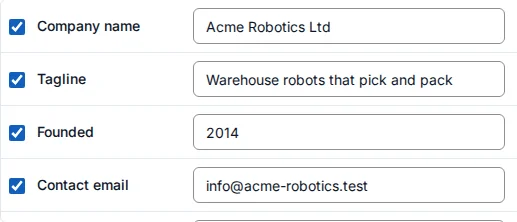
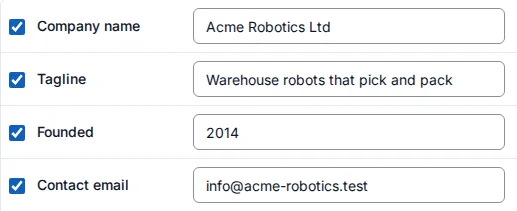
Confirm capture at natural size, footer early-access column without repeated badges

diff --git a/app/templates/main/index.html b/app/templates/main/index.html
@@ -87,7 +87,7 @@
       </li>
     </ol>
     <figure class="mt-12 max-w-3xl" data-testid="home-confirm-figure">
-      <img src="{{ url_for('static', filename='img/home/confirm-profile.webp') }}" alt="The confirm step: company name, tagline, founding year and contact email, each with a tick box and a field you can change." width="517" height="222" loading="lazy" decoding="async" class="block h-auto w-full rounded-xl border border-border">
+      <img src="{{ url_for('static', filename='img/home/confirm-profile.webp') }}" alt="The confirm step: company name, tagline, founding year and contact email, each with a tick box and a field you can change." width="517" height="211" loading="lazy" decoding="async" class="block h-auto max-w-full rounded-xl border border-border">
       <figcaption class="public-card-body mt-3">The confirm step as it looks today, on a demonstration company, captured on 26 October 2026.</figcaption>
     </figure>
     <div class="mt-8">

diff --git a/app/templates/components/public_footer.html b/app/templates/components/public_footer.html
@@ -33,7 +33,6 @@
                  {% if item.legal_slug %}data-legal-link="{{ item.legal_slug }}"{% endif %}
                  {% if item.coming_soon %}data-availability="early_access"{% endif %}>
                 {{ item.label }}
-                {%- if item.coming_soon %} {% call badge('outline') %}Early access{% endcall %}{% endif %}
               </a>
             </li>
             {% endfor %}
